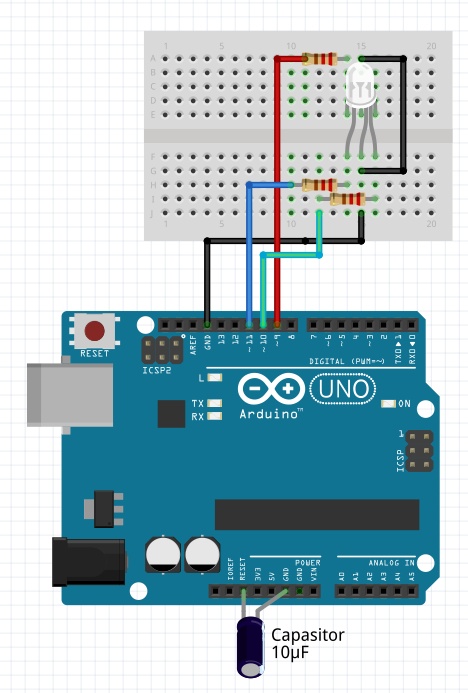
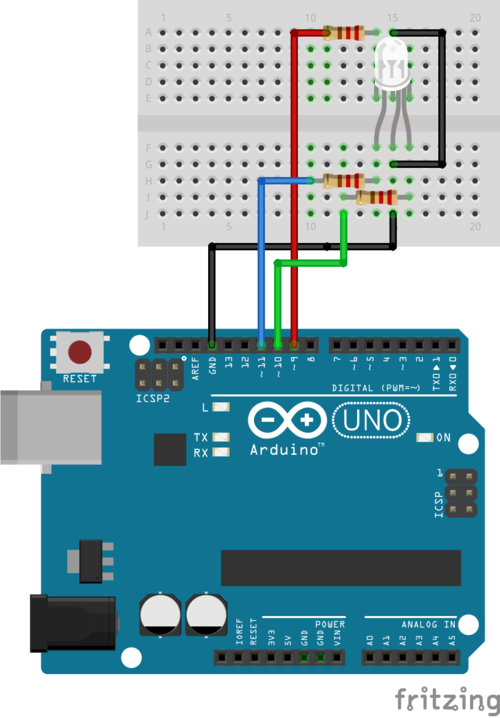
Update README

diff --git a/README.md b/README.md
@@ -1,6 +1,15 @@
-### Arduino
+# lightwait-arduino
 
-#### Build
+This is the code for an [Arduino](https://arduino.cc) based hardware device with one RBG LED which works as a [trigger](https://github.com/BuZZ-T/lightwait#trigger) in the [lightwait-stack](https://github.com/BuZZ-T/lightwait).
+
+It both supports common-anode and common-cathode LEDs. Adapt `IS_COMMON_ANODE` in the code accordingly (See the [Pinouts](#pinouts)).
+
+## Features
+
+* Listening to receive messages in the [lightwait-tp](https://github.com/BuZZ-T/lightwait#lightwait-tp) communication protocol via serial communication.
+* Is currently tested on and supports the following [Arduino](https://arduino.cc)-based platforms
+    * [Arduino Uno](https://store.arduino.cc/arduino-uno-rev3)
+## Build
 
 You can use different tools to build the .ino file. For example:
 
@@ -11,11 +20,13 @@ You can use different tools to build the .ino file. For example:
     * `ino build`
 * arduino-mk
 
-#### Flash
+## Flash
 
 Flash it to Arduino using `avrdude` or tools which use `avrdude`, like the Arduino IDE or stino.
 
-### RBG Led
+TODO:
+
+## RBG Led
 
 6 Pins with the following combinations
 
@@ -24,19 +35,36 @@ Flash it to Arduino using `avrdude` or tools which use `avrdude`, like the Ardui
 * 2+ 4- is blue
 * 6+ 3- is blue 
 
-### Pinout
+<a name="pinouts"></a>
+## Pinouts
+
+There are two example pinouts, both for the Arduino UNO.
+
+They also may contain an optional 10µF capasitor between RESET and GND to prevent resetting the arduino on establishing a new serial connection.  
+Although this capasitor is optional, it has two advantages:
+
+* The serial connection is established faster, making the color change apply faster
+* The [transmitter](https://github.com/BuZZ-T/lightwait/lightwait#transmitter) may keep the serial connection open to update the color extremly fast, as establishing the connection takes most of the time of the update
+* A reset of the arduino implies a reset of all output pins, leading the LED to flicker to off before the color change applies.
+
+### 6-pin common cathode LED
+
+| Color | Arduino Pins | LED Pins 
+|-|-|-|
+| - | GND | 3/4 |
+| red | 9 | 5 |
+| green | 10 | 1 |
+| blue | 11 | 2/6 |
 
 ![Arduino Pinout](lw_arduino.png  "Arduino Pinout")
 
-### Arduino Pins
+### 4-pin common anode LED
 
-    RED_PIN 9 
-    GREEN_PIN 10
-    BLUE_PIN 11
+| Color | Arduino Pins | LED Pins 
+|-|-|-|
+| - | 5V | 2 |
+| red | 9 | 1 |
+| green | 10 | 3 |
+| blue | 11 | 4 |
 
-| Arduino | LED |
-|-|-|
-|GND|3/4|
-|9|5|
-|10|1|
-|11|2/6|
+![Arduino with common anode LED](lw_arduino_common.png "Arduino with common anode LED")
